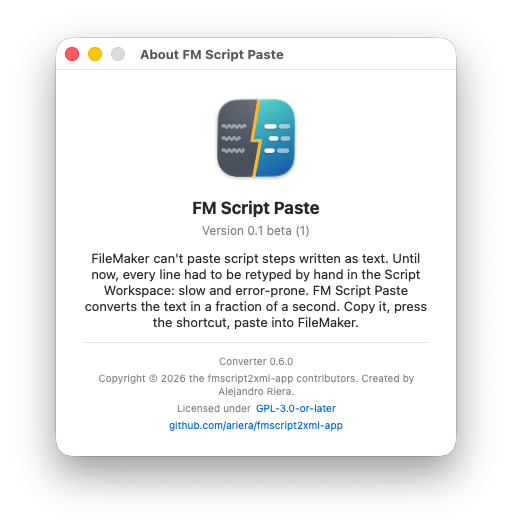
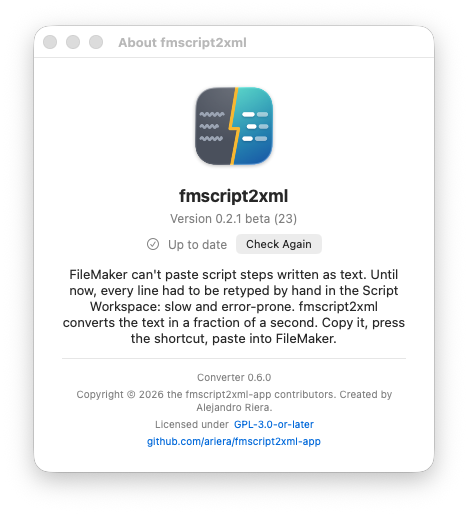
README media: new name, no script tab in the animation

Changed region(s): [[0.0598, 0.0623, 0.9274, 0.9339], [0.3889, 0.1556, 0.5983, 0.3424]]

diff --git a/tools/readme-media/make-workflow-gif.swift b/tools/readme-media/make-workflow-gif.swift
@@ -33,7 +33,7 @@ let titleBar: CGFloat = 30
 let editorFont = NSFont(name: "Menlo", size: 11) ?? .monospacedSystemFont(ofSize: 11, weight: .regular)
 let lineHeight: CGFloat = 19
 let textOrigin = CGPoint(x: left.minX + 18, y: left.minY + titleBar + 18)
-let stepsOrigin = CGPoint(x: right.minX + 46, y: right.minY + titleBar + 46)
+let stepsOrigin = CGPoint(x: right.minX + 46, y: right.minY + titleBar + 18)
 
 func color(_ hex: UInt32, _ alpha: CGFloat = 1) -> NSColor {
     NSColor(srgbRed: CGFloat((hex >> 16) & 0xFF) / 255, green: CGFloat((hex >> 8) & 0xFF) / 255,
@@ -255,7 +255,7 @@ func state(at t: Double) -> State {
     // 2.8–3.8: ⌘C
     if t >= 2.8 && t < 3.9 { s.keys = (["⌘", "C"], "Copy", fade(t, from: 2.8, to: 3.9)) }
     // 4.1–5.2: ⌃⌥⌘F, the menu bar icon reacts, then the HUD
-    if t >= 4.1 && t < 5.3 { s.keys = (["⌃", "⌥", "⌘", "F"], "Convert with FM Script Paste", fade(t, from: 4.1, to: 5.3)) }
+    if t >= 4.1 && t < 5.3 { s.keys = (["⌃", "⌥", "⌘", "F"], "Convert with fmscript2xml", fade(t, from: 4.1, to: 5.3)) }
     s.iconHighlighted = t >= 4.4 && t < 4.9
     s.hudAlpha = fade(t, from: 4.6, to: 6.6, ramp: 0.2)
     // 5.6–6.4: move to the Script Workspace and click
@@ -318,11 +318,8 @@ func render(_ s: State) -> CGImage {
 
     // Script Workspace (right)
     window(right, title: "FileMaker Pro — Script Workspace", active: s.rightActive)
-    let tab = CGRect(x: right.minX + 12, y: right.minY + titleBar + 8, width: 120, height: 24)
-    roundedRect(tab, 6, fill: color(0xE6EEF9), stroke: color(0xC5D4EA))
-    text("Update Totals", at: CGPoint(x: tab.minX + 12, y: tab.minY + 4), font: .systemFont(ofSize: 12, weight: .medium), color: color(0x1D3B66))
     let stepFont = editorFont
-    let gutter = CGRect(x: right.minX + 1, y: stepsOrigin.y - 6, width: 32, height: right.maxY - stepsOrigin.y)
+    let gutter = CGRect(x: right.minX + 1, y: right.minY + titleBar, width: 32, height: right.height - titleBar - 1)
     color(0xF6F7F9).setFill()
     gutter.fill()
     if s.pasted {

diff --git a/README.md b/README.md
@@ -1,13 +1,13 @@
-<img src="docs/logo.png" width="128" alt="FM Script Paste logo" align="right">
+<img src="docs/logo.png" width="128" alt="fmscript2xml logo" align="right">
 
-# FM Script Paste
+# fmscript2xml
 
 FileMaker can't paste script steps written as text. A step you see in an
 editor, a code review, documentation or an AI assistant has to be retyped by
 hand in the Script Workspace, line by line. For experienced developers this
 is slow, error-prone and frustrating work.
 
-FM Script Paste removes that work. Copy the steps as text, press **⌃⌥⌘F**,
+fmscript2xml removes that work. Copy the steps as text, press **⌃⌥⌘F**,
 and paste them into FileMaker as real script steps. The conversion takes a
 fraction of a second.
 
@@ -18,16 +18,16 @@ fraction of a second.
 Requires macOS 14 (Sonoma) or later. FileMaker Pro doesn't need to be
 installed for the conversion.
 
-FM Script Paste is in **beta** for all 0.x versions.
+fmscript2xml is in **beta** for all 0.x versions.
 
 1. Download the latest DMG from
    [Releases](https://github.com/ariera/fmscript2xml-app/releases).
-2. Drag **FM Script Paste** to Applications and open it.
+2. Drag **fmscript2xml** to Applications and open it.
 3. Beta builds aren't notarised by Apple yet, so macOS blocks the first
    launch. Click **Done**, open **System Settings → Privacy & Security**,
-   click **Open Anyway** next to "FM Script Paste was blocked", and confirm.
+   click **Open Anyway** next to "fmscript2xml was blocked", and confirm.
    You only do this once. (Or run
-   `xattr -dr com.apple.quarantine "/Applications/FM Script Paste.app"`.)
+   `xattr -dr com.apple.quarantine "/Applications/fmscript2xml.app"`.)
 4. The welcome window shows the shortcut and offers to launch the app at login.
    Allow notifications: failures are reported that way.
 
@@ -75,7 +75,7 @@ quitting, launch at login, show in Dock, and the installed FileMaker versions.
 
 <p>
   <img src="docs/images/settings.png" width="300" alt="Settings">
-  <img src="docs/images/about.png" width="300" alt="About FM Script Paste">
+  <img src="docs/images/about.png" width="300" alt="About fmscript2xml">
 </p>
 
 ## Troubleshooting
@@ -91,7 +91,7 @@ quitting, launch at login, show in Dock, and the installed FileMaker versions.
 - **The menu bar icon is missing.** On a crowded menu bar macOS hides some
   icons. Check System Settings → Menu Bar. You can also turn on "Show in
   Dock" in Settings.
-- **No failure notifications.** Allow notifications for FM Script Paste in
+- **No failure notifications.** Allow notifications for fmscript2xml in
   System Settings → Notifications.
 - **Paste automatically does nothing.** It needs Accessibility permission:
   System Settings → Privacy & Security → Accessibility.
